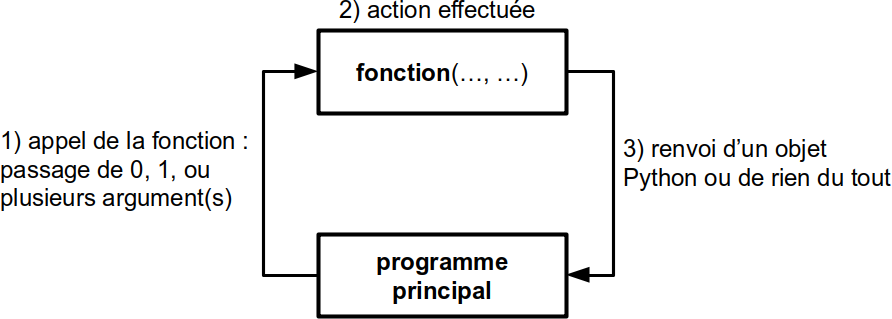
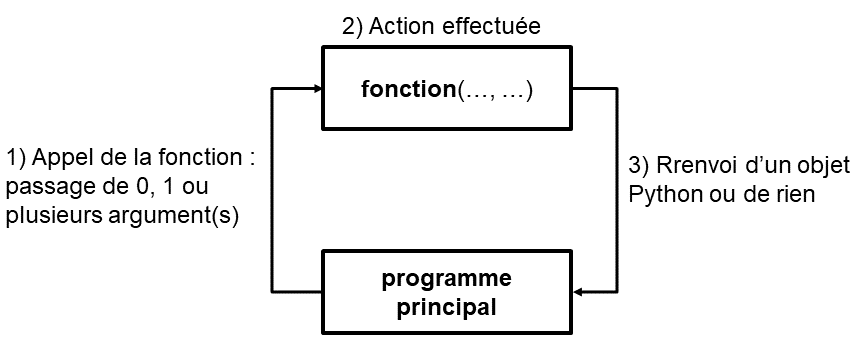
Corrections Dunod Chap 10

Changed region(s): [[0.0, 0.0, 0.9988, 1.0]]

diff --git a/10_fonctions.md b/10_fonctions.md
@@ -8,7 +8,7 @@ Vous connaissez déjà certaines fonctions Python. Par exemple `math.cos(angle)`
 
 1. À laquelle vous passez aucune, une ou plusieurs variable(s) entre parenthèses. Ces variables sont appelées **arguments**. Il peut s'agir de n'importe quel type d'objet Python.
 2. Qui effectue une action.
-3. Et qui renvoie un objet Python ou rien du tout.
+3. Qui renvoie un objet Python ou rien du tout.
 
 Tout cela est illustré schématiquement dans la Figure ci-dessous.
 
@@ -37,13 +37,13 @@ Autre exemple, si vous appelez la méthode `ma_liste.append()` (n'oubliez pas, u
 2. la méthode `append()` ajoute l'entier `5` à l'objet `ma_liste` ;
 3. et elle ne renvoie rien.
 
-Aux yeux du programmeur au contraire, une fonction est une portion de code effectuant une suite d'instructions bien particulière. Mais avant de vous présenter la syntaxe et la manière de construire une fonction, revenons une dernière fois sur cette notion de « boîte noire » :
+Aux yeux du programmeur, au contraire, une fonction est une portion de code effectuant une suite d'instructions bien particulière. Mais avant de vous présenter la syntaxe et la manière de construire une fonction, revenons une dernière fois sur cette notion de «~boîte noire » :
 
-- Une fonction effectue une tâche. Pour cela, elle reçoit éventuellement des arguments et renvoie éventuellement quelque chose. L'algorithme utilisé au sein de la fonction n'intéresse pas directement l'utilisateur. Par exemple, il est inutile de savoir comment la fonction `math.cos()` calcule un cosinus. On a juste besoin de savoir qu'il faut lui passer en argument un angle en radian et qu'elle renvoie le cosinus de cet angle. Ce qui se passe à l'intérieur de la fonction ne regarde que le programmeur.
+- Une fonction effectue une tâche. Pour cela, elle reçoit éventuellement des arguments et renvoie éventuellement quelque chose. L'algorithme utilisé au sein de la fonction n'intéresse pas directement l'utilisateur. Par exemple, il est inutile de savoir comment la fonction `math.cos()` calcule un cosinus. On a juste besoin de savoir qu'il faut lui passer en argument un angle en radian, et qu'elle renvoie le cosinus de cet angle. Ce qui se passe à l'intérieur de la fonction ne regarde que le programmeur.
 
 - Chaque fonction effectue en général une tâche **unique et précise**. Si cela se complique, il est plus judicieux d'écrire plusieurs fonctions (qui peuvent éventuellement s'appeler les unes les autres). Cette **modularité** améliore la qualité générale et la lisibilité du code. Vous verrez qu'en Python, les fonctions présentent une grande flexibilité.
 
-Pour finir sur les généralités, nous avons utilisé dans la Figure ci-dessus le terme **programme principal** (*main* en anglais) pour désigner l'endroit depuis lequel on appelle une fonction (on verra plus tard que l'on peut en fait appeler une fonction de n'importe où). Le programme principal désigne le code qui est exécuté lorsqu'on lance le script Python, c'est-à-dire toute la suite d'instructions en dehors des fonctions. En général, dans un script Python, on écrit d'abord les fonctions puis le programme principal. Nous aurons l'occasion de revenir sur cette notion de programme principal plus tard dans ce chapitre ainsi que dans le chapitre 13 *Plus sur les fonctions*.
+Pour finir sur les généralités, nous avons utilisé dans la Figure ci-dessus le terme **programme principal** (*main* en anglais), pour désigner l'endroit depuis lequel on appelle une fonction (on verra plus tard que l'on peut en fait appeler une fonction de n'importe où). Le programme principal désigne le code qui est exécuté lorsqu'on lance le script Python, c'est-à-dire toute la suite d'instructions en dehors des fonctions. En général, dans un script Python, on écrit d'abord les fonctions, puis le programme principal. Nous aurons l'occasion de revenir sur cette notion de programme principal plus tard dans ce chapitre, ainsi que dans le chapitre 13 *Plus sur les fonctions*.
 
 
 ## Définition
@@ -58,9 +58,9 @@ Pour définir une fonction, Python utilise le mot-clé `def`. Si on souhaite que
 4
 ```
 
-Notez que la syntaxe de `def` utilise les deux-points comme les boucles `for` et `while` ainsi que les tests `if`, un bloc d’instructions est donc attendu. De même que pour les boucles et les tests, l'**indentation** de ce bloc d'instructions (qu'on appelle le corps de la fonction) est **obligatoire**.
+Notez que la syntaxe de `def` utilise les deux-points comme les boucles `for` et `while` ainsi que les tests `if` : un bloc d’instructions est donc attendu. De même que pour les boucles et les tests, l'**indentation** de ce bloc d'instructions (qu'on appelle le corps de la fonction) est **obligatoire**.
 
-Dans l'exemple précédent, nous avons passé un argument à la fonction `carre()` qui nous a renvoyé (ou retourné) une valeur que nous avons immédiatement affichée à l'écran avec l'instruction `print()`. Que veut dire valeur renvoyée ? Et bien cela signifie que cette dernière est récupérable dans une variable :
+Dans l'exemple précédent, nous avons passé un argument à la fonction `carre()`, qui nous a renvoyé (ou retourné) une valeur que nous avons immédiatement affichée à l'écran avec l'instruction `print()`. Que veut dire valeur renvoyée ? Et bien cela signifie que cette dernière est récupérable dans une variable :
 
 ```python
 >>> res = carre(2)
@@ -79,7 +79,7 @@ Notez qu'une fonction ne prend pas forcément un argument et ne renvoie pas forc
 bonjour
 ```
 
-Dans ce cas la fonction, `hello()` se contente d'afficher la chaîne de caractères `"bonjour"` à l'écran. Elle ne prend aucun argument et ne renvoie rien. Par conséquent, cela n'a pas de sens de vouloir récupérer dans une variable le résultat renvoyé par une telle fonction. Si on essaie tout de même, Python affecte la valeur `None` qui signifie *rien* en anglais:
+Dans ce cas, la fonction `hello()` se contente d'afficher la chaîne de caractères `"bonjour"` à l'écran. Elle ne prend aucun argument et ne renvoie rien. Par conséquent, cela n'a pas de sens de vouloir récupérer dans une variable le résultat renvoyé par une telle fonction. Si on essaie tout de même, Python affecte la valeur `None` qui signifie *rien* en anglais:
 
 ```python
 >>> var = hello()
@@ -93,9 +93,9 @@ Ceci n'est pas une faute car Python n'émet pas d'erreur, toutefois cela ne pré
 
 ## Passage d'arguments
 
-Le nombre d'arguments que l'on peut passer à une fonction est variable. Nous avons vu ci-dessus des fonctions auxquelles on passait 0 ou 1 argument. Dans les chapitres précédents, vous avez rencontré des fonctions internes à Python qui prenaient au moins 2 arguments. Souvenez-vous par exemple de `range(1, 10)` ou encore `range(1, 10, 2)`. Le nombre d'argument est donc laissé libre à l'initiative du programmeur qui développe une nouvelle fonction.
+Le nombre d'arguments que l'on peut passer à une fonction est variable. Nous avons vu ci-dessus des fonctions auxquelles on passait zero ou un argument. Dans les chapitres précédents, vous avez rencontré des fonctions internes à Python qui prenaient au moins deux arguments. Souvenez-vous par exemple de `range(1, 10)` ou encore `range(1, 10, 2)`. Le nombre d'argument est donc laissé libre à l'initiative du programmeur qui développe une nouvelle fonction.
 
-Une particularité des fonctions en Python est que vous n'êtes pas obligé de préciser le type des arguments que vous lui passez, dès lors que les opérations que vous effectuez avec ces arguments sont valides. Python est en effet connu comme étant un langage au « typage dynamique », c'est-à-dire qu'il reconnaît pour vous le type des variables au moment de l'exécution. Par exemple :
+Une particularité des fonctions en Python est que vous n'êtes pas obligé de préciser le type des arguments que vous lui passez, dès lors que les opérations que vous effectuez avec ces arguments sont valides. Python est en effet connu comme étant un langage au «~typage dynamique », c'est-à-dire qu'il reconnaît pour vous le type des variables au moment de l'exécution. Par exemple :
 
 ```python
 >>> def fois(x, y):
@@ -126,7 +126,7 @@ Un énorme avantage en Python est que les fonctions sont capables de renvoyer pl
 (4, 8)
 ```
 
-En réalité Python ne renvoie qu'un seul objet, mais celui-ci peut être séquentiel, c'est-à-dire contenir lui même d'autres objets. Dans notre exemple Python renvoie un objet de type `tuple`, type que nous avons vu dans le chapitre 8 *Dictionnaires et tuples* (souvenez-vous, il s'agit d'une sorte de liste avec des propriétés différentes). Notre fonction pourrait tout autant renvoyer une liste :
+En réalité Python ne renvoie qu'un seul objet, mais celui-ci peut être séquentiel, c'est-à-dire contenir lui-même d'autres objets. Dans notre exemple, Python renvoie un objet de type `tuple`, type que nous avons vu dans le chapitre 8 *Dictionnaires et tuples* (souvenez-vous, il s'agit d'une sorte de liste avec des propriétés différentes). Notre fonction pourrait tout autant renvoyer une liste :
 
 ```python
 >>> def carre_cube2(x):
@@ -185,7 +185,7 @@ On constate que passer un seul argument à une fonction qui en attend deux condu
 
 open-box-def
 
-Lorsqu'on définit une fonction `def fct(x, y):` les arguments `x` et `y` sont appelés **arguments positionnels** (en anglais *positional arguments*). Il est strictement obligatoire de les préciser lors de l'appel de la fonction. De plus, il est nécessaire de respecter le même ordre lors de l'appel que dans la définition de la fonction. Dans l'exemple ci-dessus, `2` correspondra à `x` et `3` correspondra à `y`. Finalement, tout dépendra de leur position, d'où leur qualification de positionnel.
+Lorsqu'on définit une fonction `def fct(x, y):` les arguments `x` et `y` sont appelés **arguments positionnels** (en anglais, *positional arguments*). Il est strictement obligatoire de les préciser lors de l'appel de la fonction. De plus, il est nécessaire de respecter le même ordre lors de l'appel que dans la définition de la fonction. Dans l'exemple ci-dessus, `2` correspondra à `x` et `3` correspondra à `y`. Finalement, tout dépendra de leur position, d'où leur qualification de positionnel.
 
 close-box-def
 
@@ -203,7 +203,7 @@ Mais il est aussi possible de passer un ou plusieurs argument(s) de manière fac
 
 open-box-def
 
-Un argument défini avec une syntaxe `def fct(arg=val):` est appelé **argument par mot-clé** (en anglais *keyword argument*). Le passage d'un tel argument lors de l'appel de la fonction est facultatif. Ce type d'argument ne doit pas être confondu avec les arguments positionnels présentés ci-dessus, dont la syntaxe est `def fct(arg):`.
+Un argument défini avec une syntaxe `def fct(arg=val):` est appelé **argument par mot-clé** (en anglais, *keyword argument*). Le passage d'un tel argument lors de l'appel de la fonction est facultatif. Ce type d'argument ne doit pas être confondu avec les arguments positionnels présentés ci-dessus, dont la syntaxe est `def fct(arg):`.
 
 close-box-def
 
@@ -223,7 +223,7 @@ Il est bien sûr possible de passer plusieurs arguments par mot-clé :
 (10, 8, 3)
 ```
 
-On observe que pour l'instant, les arguments par mot-clé sont pris dans l'ordre dans lesquels on les passe lors de l'appel. Comment pourrions-nous faire si on souhaitait préciser l'argument par mot-clé `z` et garder les valeurs de `x` et `y` par défaut ? Simplement en  précisant le nom de l'argument lors de l'appel :
+On observe que pour l'instant, les arguments par mot-clé sont pris dans l'ordre dans lesquels on les passe lors de l'appel. Comment faire si l'on souhaitait préciser l'argument par mot-clé `z` et garder les valeurs de `x` et `y` par défaut ? Simplement en  précisant le nom de l'argument lors de l'appel :
 
 ```python
 >>> fct(z=10)
@@ -302,54 +302,54 @@ Pour la suite des explications, nous allons utiliser l'excellent site [*Python T
 
 Regardons maintenant ce qui se passe dans le code ci-dessus, étape par étape :
 
-- Étape 1 : Python est prêt à lire la première ligne de code.
+- **Étape 1** : Python est prêt à lire la première ligne de code.
 
 ![Étape 1.](img/fct_step1.png){ #fig:fct_step1 width=80% }
 \
 
 
-- Étape 2 : Python met en mémoire la fonction `carre()`. Notez qu'il ne l'exécute pas ! La fonction est mise dans un espace de la mémoire nommé *Global frame*, il s'agit de l'espace du programme principal. Dans cet espace, seront stockées toutes les variables *globales* créées dans le programme. Python est maintenant prêt à exécuter le programme principal.
+- **Étape 2** : Python met en mémoire la fonction `carre()`. Notez qu'il ne l'exécute pas ! La fonction est mise dans un espace de la mémoire nommé *Global frame*, il s'agit de l'espace du programme principal. Dans cet espace seront stockées toutes les variables *globales* créées dans le programme. Python est maintenant prêt à exécuter le programme principal.
 
 ![Étape 2.](img/fct_step2.png){ #fig:fct_step2 width=80% }
 \
 
 
-- Étape 3 : Python lit et met en mémoire la variable `var`. Celle-ci étant créée dans le programme principal, il s'agira d'une variable *globale*. Ainsi, elle sera également stockée dans le *Global frame*.
+- **Étape 3** : Python lit et met en mémoire la variable `var`. Celle-ci étant créée dans le programme principal, il s'agira d'une variable *globale*. Ainsi, elle sera également stockée dans le *Global frame*.
 
 ![Étape 3.](img/fct_step3.png){ #fig:fct_step3 width=80% }
 \
 
-- Étape 4 : La fonction `carre()` est appelée et on lui passe en argument l'entier `var`. La fonction s'exécute et un nouveau cadre est créé dans lequel *Python Tutor* va indiquer toutes les variables *locales* à la fonction. Notez bien que la variable passée en argument, qui s'appelle `x` dans la fonction, est créée en tant que variable *locale*. On remarquera aussi que les variables *globales* situées dans le *Global frame* sont toujours là.
+- **Étape 4** : La fonction `carre()` est appelée et on lui passe en argument l'entier `var`. La fonction s'exécute et un nouveau cadre est créé dans lequel *Python Tutor* va indiquer toutes les variables *locales* à la fonction. Notez bien que la variable passée en argument, qui s'appelle `x` dans la fonction, est créée en tant que variable *locale*. On remarquera aussi que les variables *globales* situées dans le *Global frame* sont toujours là.
 
 ![Étape 4.](img/fct_step4.png){ #fig:fct_step4 width=80% }
 \
 
 
-- Étape 5 : Python est maintenant prêt à exécuter chaque ligne de code de la fonction.
+- **Étape 5** : Python est maintenant prêt à exécuter chaque ligne de code de la fonction.
 
 ![Étape 5.](img/fct_step5.png){ #fig:fct_step5 width=80% }
 \
 
 
-- Étape 6 : La variable `y` est créée dans la fonction. Celle-ci est donc stockée en tant que variable *locale* à la fonction.
+- **Étape 6** : La variable `y` est créée dans la fonction. Celle-ci est donc stockée en tant que variable *locale* à la fonction.
 
 ![Étape 6.](img/fct_step6.png){ #fig:fct_step6 width=80% }
 \
 
 
-- Étape 7 : Python s'apprête à renvoyer la variable *locale* `y` au programme principal. *Python Tutor* nous indique le contenu de la valeur renvoyée.
+- **Étape 7** : Python s'apprête à renvoyer la variable *locale* `y` au programme principal. *Python Tutor* nous indique le contenu de la valeur renvoyée.
 
 ![Étape 7.](img/fct_step7.png){ #fig:fct_step7 width=80% }
 \
 
 
-- Étape 8 : Python quitte la fonction et la valeur renvoyée par celle-ci est affectée à la variable *globale* `resultat`. Notez bien que lorsque Python quitte la fonction, **l'espace des variables alloué à la fonction est détruit**. Ainsi, toutes les variables créées dans la fonction n'existent plus. On comprend pourquoi elles portent le nom de *locales* puisqu'elles n'existent que lorsque la fonction est exécutée.
+- **Étape 8** : Python quitte la fonction et la valeur renvoyée par celle-ci est affectée à la variable *globale* `resultat`. Notez bien que lorsque Python quitte la fonction, **l'espace des variables alloué à la fonction est détruit**. Ainsi, toutes les variables créées dans la fonction n'existent plus. On comprend pourquoi elles portent le nom de *locales* puisqu'elles n'existent que lorsque la fonction est exécutée.
 
 ![Étape 8.](img/fct_step8.png){ #fig:fct_step8 width=80% }
 \
 
 
-- Étape 9 : Python affiche le contenu de la variable `resultat` et l'exécution est terminée.
+- **Étape 9** : Python affiche le contenu de la variable `resultat` et l'exécution est terminée.
 
 ![Étape 9.](img/fct_step9.png){ #fig:fct_step9 width=80% }
 \
@@ -379,7 +379,7 @@ Considérons par exemple le code suivant qui convertit plusieurs températures d
 42.5
 ```
 
-Malheureusement il y a une erreur dans la formule de conversion. En effet la formule exacte est :
+Malheureusement, il y a une erreur dans la formule de conversion. En effet, la formule exacte est :
 
 $$
 {\rm temp\_celsius} = ({\rm temp\_fahrenheit} - 32) \times \frac{5}{9}
@@ -410,7 +410,7 @@ Et s'il y a une erreur dans la formule, il suffira de ne la corriger qu'une seul
 
 open-box-adv
 
-pour le premier exercice, utilisez *Python Tutor*. Pour les exercices suivants, créez des scripts puis exécutez-les dans un *shell*.
+Pour le premier exercice, utilisez *Python Tutor*. Pour les exercices suivants, créez des scripts puis exécutez-les dans un *shell*.
 
 close-box-adv
 
@@ -448,7 +448,7 @@ nb2 = 10
 print(f"{nb2}! = {calc_factorielle(nb2)}")
 ```
 
-Testez ensuite cette portion de code avec *Python Tutor* en cherchant à bien comprendre chaque étape.
+Testez ensuite cette portion de code avec *Python Tutor*, en cherchant à bien comprendre chaque étape.
 Avez-vous réussi à prédire la sortie correctement ?
 
 open-box-rem
@@ -491,7 +491,7 @@ Dans un script `pyra.py`, créez une fonction `gen_pyramide()` à laquelle vous 
 
 Reprenez l'exercice du chapitre 6 *Tests* sur les nombres premiers.
 
-Créez une fonction `est_premier()` qui prend comme argument un nombre entier positif *n* (supérieur à 2) et qui renvoie le booléen `True` si *n* est premier et `False` si *n* n'est pas premier. Déterminez tous les nombres premiers de 2 à 100. On souhaite avoir une sortie similaire à celle-ci :
+Créez une fonction `est_premier()` qui prend comme argument un nombre entier positif *n* (supérieur à 2), et qui renvoie le booléen `True` si *n* est premier et `False` si *n* n'est pas premier. Déterminez tous les nombres premiers de 2 à 100. On souhaite avoir une sortie similaire à celle-ci :
 
 ```text
   2 est premier
@@ -506,8 +506,10 @@ Créez une fonction `est_premier()` qui prend comme argument un nombre entier po
 
 Créez une fonction `seq_comp()` qui prend comme argument une liste de bases et qui renvoie la séquence complémentaire d'une séquence d'ADN sous forme de liste.
 
-Dans le programme principal, à partir de la séquence d'ADN 
-`seq = ["A", "T", "C", "G", "A", "T", "C", "G", "A", "T", "C"]` 
+Dans le programme principal, à partir de la séquence d'ADN
+
+`seq = ["A", "T", "C", "G", "A", "T", "C", "G", "A", "T", "C"]`
+
 affichez `seq` et sa séquence complémentaire (en utilisant votre fonction `seq_comp()`).
 
 Rappel : la séquence complémentaire s'obtient en remplaçant A par T, T par A, C par G et G par C.
@@ -526,7 +528,7 @@ $$
 
 ### Distribution et statistiques
 
-Créez une fonction `gen_distrib()` qui prend comme argument trois entiers : *debut*, *fin* et *n*. La fonction renverra une liste de $n$ *floats* aléatoires entre *debut* et *fin*. Pour générer un nombre aléatoire dans un intervalle donné, utilisez la fonction `uniform()` du module *random* dont voici quelques exemple d'utilisation :
+Créez une fonction `gen_distrib()` qui prend comme argument trois entiers : *debut*, *fin* et *n*. La fonction renverra une liste de $n$ *floats* aléatoires entre *debut* et *fin*. Pour générer un nombre aléatoire dans un intervalle donné, utilisez la fonction `uniform()` du module *random*, dont voici quelques exemple d'utilisation :
 
 ```python
 >>> import random
@@ -561,7 +563,7 @@ Les écarts sur les statistiques entre les différentes listes sont-ils importan
 
 En reprenant votre fonction de calcul de distance euclidienne en trois dimensions `calc_distance_3D()`, faites-en une version pour deux dimensions que vous appellerez `calc_distance_2D()`.
 
-Créez une autre fonction `calc_dist2ori()` à laquelle vous passez en argument deux listes de *floats* `list_x` et `list_y` représentant les coordonnées d'une fonction mathématique (par exemple $x$ et $sin(x)$). Cette fonction renverra une liste de *floats* représentant la distance entre chaque point de la fonction et l'origine (de coordonnées $(0,0)$).
+Créez une autre fonction `calc_dist2ori()`, à laquelle vous passez en argument deux listes de *floats* `list_x` et `list_y` représentant les coordonnées d'une fonction mathématique (par exemple $x$ et $sin(x)$). Cette fonction renverra une liste de *floats* représentant la distance entre chaque point de la fonction et l'origine (de coordonnées $(0,0)$).
 
 La figure @fig:sin2ori montre un exemple sur quelques points de la fonction $sin(x)$ (courbe en trait épais). Chaque trait pointillé représente la distance que l'on cherche à calculer entre les points de la courbe et l'origine du repère de coordonnées $(0, 0$).
 
